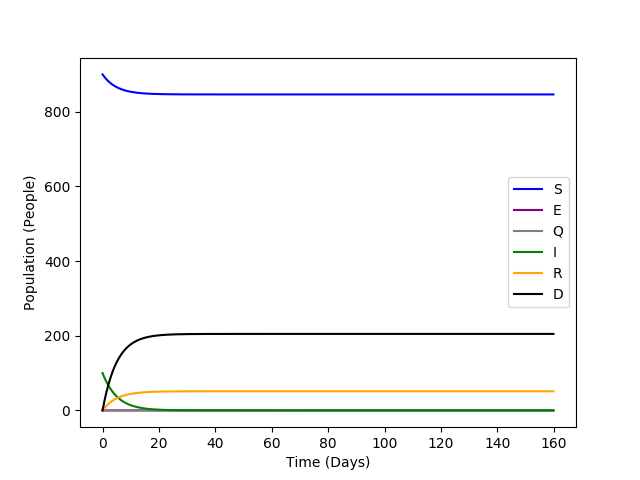
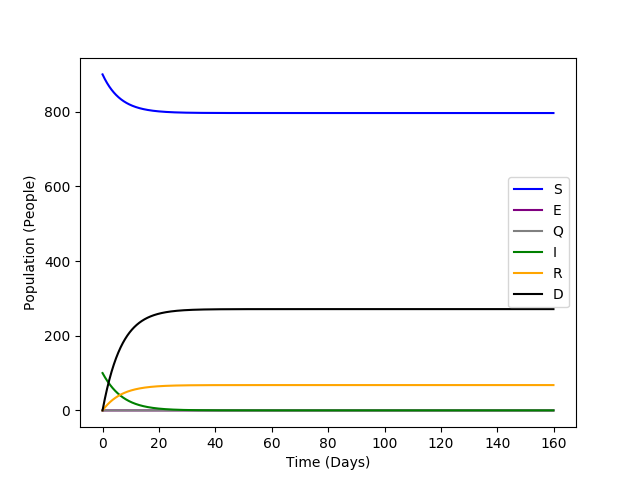
adding files

Changed region(s): [[0.1562, 0.6562, 0.875, 0.875], [0.1562, 0.1562, 0.875, 0.25], [0.25, 0.625, 0.875, 0.6562]]

diff --git a/hrenard_program3.py b/hrenard_program3.py
@@ -6,7 +6,7 @@ import numpy as np
 def runsim(
 	mean_infectious_duration = 10, 	         		# day
 	transmissibility = .6,                         		# infection / contact
-	contact_factor = .2,                          		# (contact / day) / person
+	contact_factor = .3,                          		# (contact / day) / person
 	mean_exposed = 2,                               	# day
 	mean_quarantine = 5,					# day
 	mean_death = 5,                                 	# day
